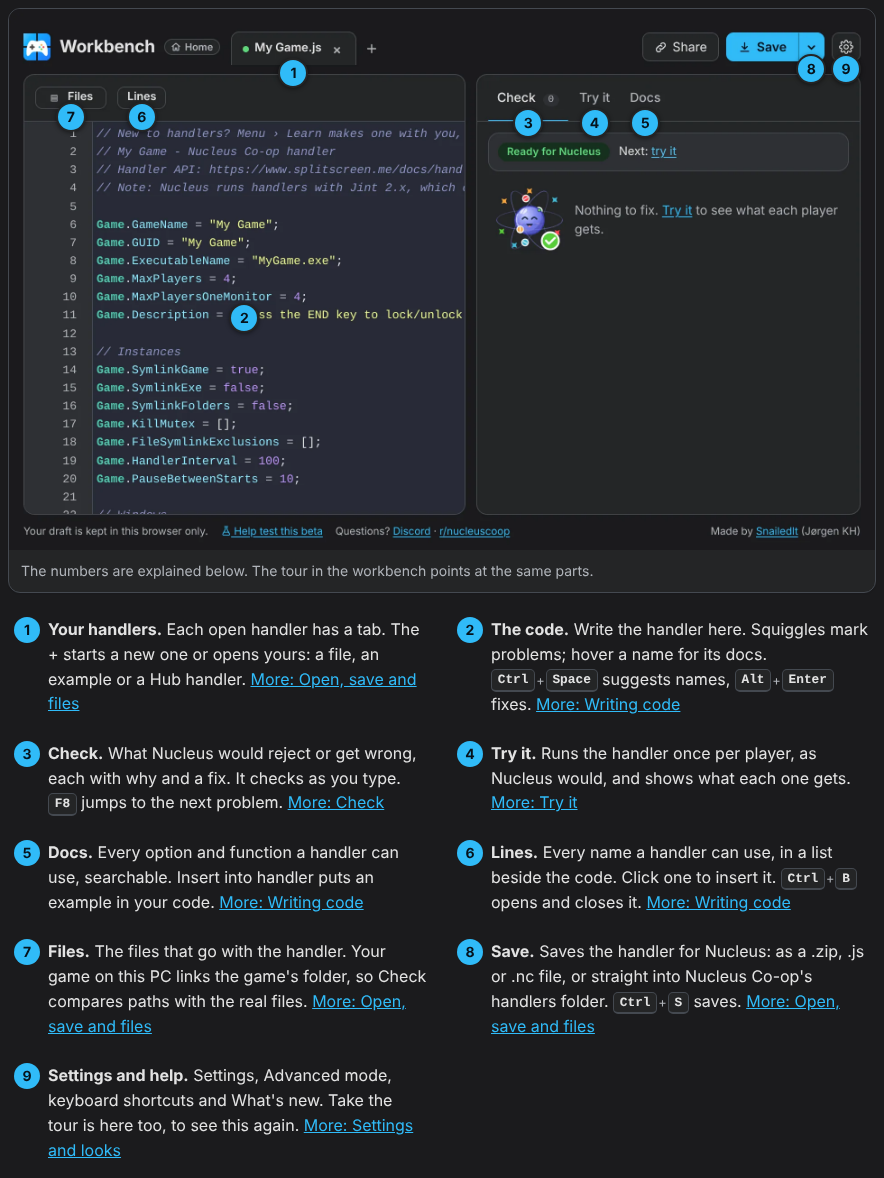
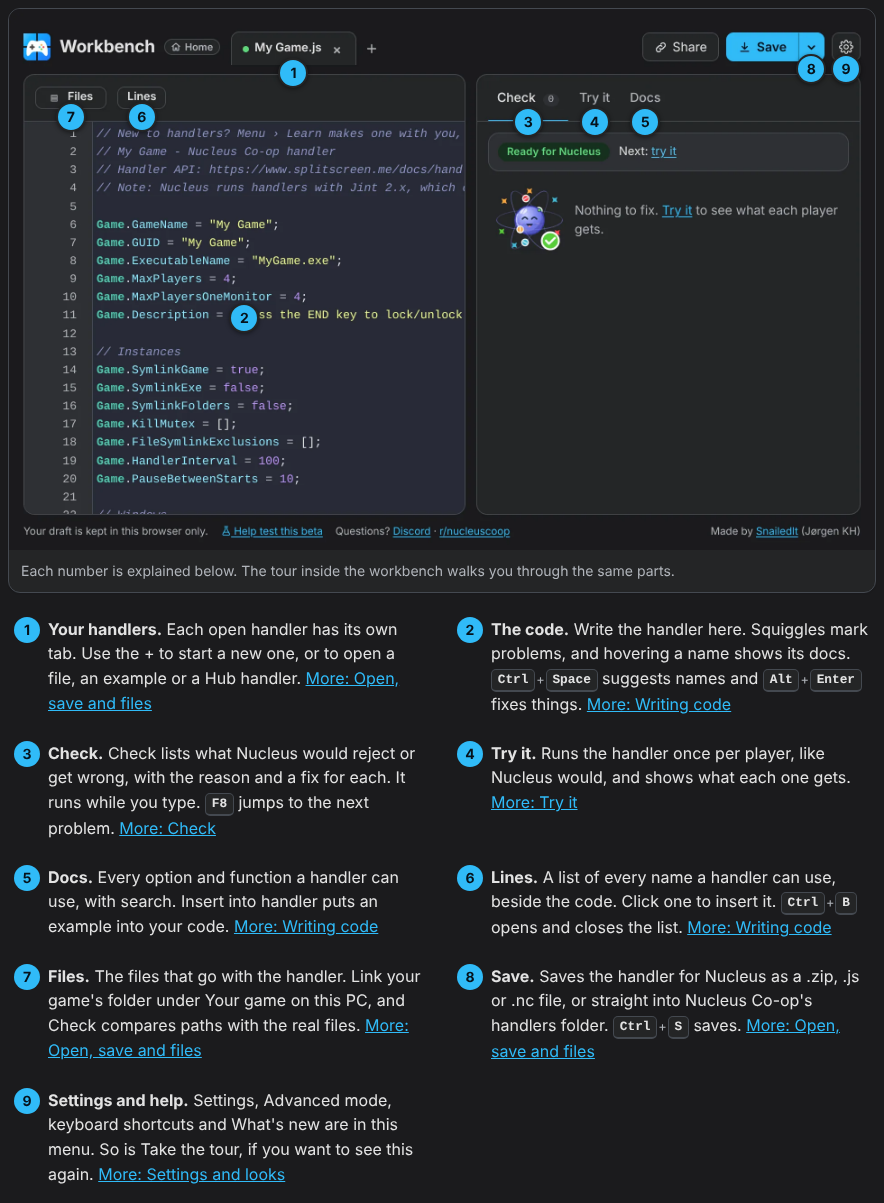
Tools docs: config blocks coloured by their own language, and plainer wording
- Other editors: a fenced block in Lua, TOML, JSON or Emacs Lisp was coloured
  as handler JavaScript, because the docs writer dropped the fence's language.
  It now marks the block with its language and the site's page pass colours
  it; handler code keeps the handler colours, an unknown language stays plain.
- File names (languages.toml, ncdev.exe, *.js) and command lines
  (ncdev setup notepad++) in running text are no longer coloured as code.
- The Tools pages, the tour's words and the tips are reworded to read the way
  a person would explain them: no question openers, fewer colon sentences,
  contractions. AGENTS.md has the convention.

Claude-Session: https://claude.ai/code/session_0176z2bCvwUXMSQ8ZHn5TiTv

diff --git a/workbench/playground/src/tips.ts b/workbench/playground/src/tips.ts
@@ -30,7 +30,7 @@ const has = (c: TipContext, s: string) => c.text.includes(s);
 export const CONTEXT_TIPS: Tip[] = [
   {
     id: 'start',
-    text: 'Starting from scratch? A template or a Hub handler for a similar game gets you most of the way.',
+    text: 'A template or a Hub handler for a similar game gets you most of the way when you start from scratch.',
     when: (c) => c.text.trim().length < 120,
     action: { label: 'New handler…', run: 'new' },
   },
@@ -71,7 +71,7 @@ export const CONTEXT_TIPS: Tip[] = [
   },
   {
     id: 'mutex',
-    text: 'Not sure which mutex to kill? Hub handlers for games on the same engine often use the same one. Search the examples.',
+    text: 'Hub handlers for games on the same engine often kill the same mutex. If you don\'t know which one this game needs, search the examples.',
     when: (c) => /KillMutex\b/.test(c.lineText),
     action: { label: 'Examples', run: 'examples' },
   },
@@ -141,10 +141,10 @@ const PITFALLS = T('Pitfall', [
 const SHORTCUTS = T('Shortcut', [
   { id: 's-palette', text: '{key:palette} (or `F1`) opens the command palette, as in VS Code: format, fix, Try it, theme and the rest, each with its shortcut.' },
   { id: 's-open', text: '{key:open} (or Ctrl+K, or Shift twice) opens the examples, templates and Hub handlers. Type `>` there to switch to commands. Double Shift can be turned off in Settings › Keyboard shortcuts.', action: { label: 'Examples', run: 'examples' } },
-  { id: 'f-looks-past', text: 'Miss the old Nucleus Co-op? Settings ({key:settings}) → Theme has vlxst\'s Mac style and the original alpha 8 look, light and dark.' },
-  { id: 'f-code-colours', text: 'Prefer your editor\'s colours? Settings ({key:settings}) → Theme → Code colours: GitHub, VS Code, Xcode, One, Monokai or Dracula, with any look.' },
-  { id: 'f-custom-theme', text: 'Make the workbench yours: Settings ({key:settings}) → Theme → "Download this look as a theme file", keep only the colours you change, then "Load a theme file…". It shows up under Look, next to the built-in ones.' },
-  { id: 'f-ref-home', text: 'Not sure what an option is called? Open Docs with nothing typed and browse Game, Context, Player and the rest, or see the names Hub handlers use most.' },
+  { id: 'f-looks-past', text: 'If you miss the old Nucleus Co-op look, Settings ({key:settings}) → Theme has vlxst\'s Mac style and the original alpha 8 look, each in light and dark.' },
+  { id: 'f-code-colours', text: 'The code can use your editor\'s colours. Settings ({key:settings}) → Theme → Code colours has GitHub, VS Code, Xcode, One, Monokai and Dracula, and they work with any look.' },
+  { id: 'f-custom-theme', text: 'You can make your own look. In Settings ({key:settings}) → Theme, choose "Download this look as a theme file", keep only the colours you want to change, then "Load a theme file…". It appears under Look next to the built-in ones.' },
+  { id: 'f-ref-home', text: 'When you don\'t know what an option is called, open Docs with nothing typed. You can browse Game, Context, Player and the rest, or look at the names Hub handlers use most.' },
   { id: 'f-lines-ref', text: 'Open the Docs tab, then point at names in Lines ({key:lines}): each one\'s full docs show in Docs, on a wide screen.', action: { label: 'Lines', run: 'lines' } },
   { id: 's-open-keys', text: 'In Open (Ctrl+K), the arrow keys move between tiles, templates and Hub rows; `Home` and `End` jump to the first and last. Hover a Hub handler\'s icons for players, keyboards and mice, and downloads.', action: { label: 'Examples', run: 'examples' } },
   { id: 's-format', text: '{key:format} formats the code: indentation and spacing only. Nothing moves to another line, so Nucleus reads it exactly as before.' },
@@ -153,10 +153,10 @@ const SHORTCUTS = T('Shortcut', [
   { id: 's-lines', text: '{key:lines} shows or hides Lines (Ctrl+Shift+L too, outside the code: in the code it selects every occurrence, as in VS Code).', action: { label: 'Show Lines', run: 'lines' } },
   { id: 's-docs-insert', text: 'Docs show an example for most names: Insert into handler puts it where it belongs (an option with the others, a call in `Game.Play`), or updates the value when the handler sets it already. Ctrl+Z undoes it.' },
   { id: 's-docs-page', text: 'Every name in Docs has a page of its own to link to: open one and choose Open as a page, or send someone docs/Context.ModifySaveFile/ on the site.' },
-  { id: 's-tutorial', text: 'New to handlers? Learn walks you through making your first one, for a free game, a few lines at a time, checked as you type. At the end, you test it in Nucleus Co-op. Stuck on a step? Hint says what\'s missing without giving the answer away.', action: { label: 'Start it', run: 'tutorial' } },
+  { id: 's-tutorial', text: 'If you\'re new to handlers, Learn walks you through making your first one for a free game, a few lines at a time, checked as you type. At the end you test it in Nucleus Co-op. When you\'re stuck on a step, Hint tells you what\'s missing without giving the answer away.', action: { label: 'Start it', run: 'tutorial' } },
   { id: 's-find-all', text: 'Add the same text after every match: {key:find}, type what to find, {key:findSelectAll} selects every match, then `→` puts a cursor after each (`←` before each) and you type once for all.' },
   { id: 's-edit', text: 'VS Code’s editing keys work: {key:comment} comments a line, Alt+↑/↓ moves it, Shift+Alt+↑/↓ copies it, {key:selectNext} selects the next match.' },
-  { id: 's-explain', text: 'Not sure what a line does? Put the cursor on it and press {key:explainLine}: what it does in plain words, the docs of its names, and what Check says about it.' },
+  { id: 's-explain', text: 'To find out what a line does, put the cursor on it and press {key:explainLine}. You get the line in plain words, the docs of its names, and what Check says about it.' },
   { id: 's-goto', text: '{key:goToLine} goes to a line number, handy with a line from a Nucleus error message.' },
   { id: 's-suggest', text: 'Type `.` after `Game`, `Context` or `Nucleus`, or press {key:suggest}, for the names that exist there, with their docs.' },
   { id: 's-save', text: '{key:save} saves the handler as a .zip Nucleus Co-op can install; {key:saveAs} (or the arrow next to Save) picks .js or .nc. {key:settings} opens Settings, and ? lists every shortcut.' },
@@ -169,7 +169,7 @@ const SETTINGS = T('Setting', [
   { id: 'c-lines', text: 'Lines can show a tree or one list, grouped by object, topic, type or where names work (top level or inside Game.Play). The ⚙ has more, like a wider column.', action: { label: 'Show Lines', run: 'lines' } },
   { id: 'c-review', text: 'Fix all shows a before/after to accept first. Tick Apply without review to skip that.' },
   { id: 'c-tips', text: 'Turn tips off with "Tips: on" at the bottom, or in Settings. "Show heads-ups again" there brings back the ones about specific lines.' },
-  { id: 'c-wakatime', text: 'Use WakaTime? Add your API key in Settings: writing, testing in Try it and reading docs show up as separate categories. The code is never sent.' },
+  { id: 'c-wakatime', text: 'If you use WakaTime, add your API key in Settings. Writing, testing in Try it and reading docs then show up as separate categories. Your code is never sent.' },
 ]);
 
 const FEATURES_ = T('Feature', [
@@ -182,29 +182,29 @@ const FEATURES_ = T('Feature', [
   { id: 'f-package', text: 'Open a .zip or .nc, or a Hub handler marked "+ N files" in the Open list, and its other files come along: "+ N files" shows each one, where Nucleus installs it and what’s inside, and saving puts them back. Big Hub files show a Hub badge: get those from the original package.' },
   { id: 'f-reference', text: 'The Docs tab searches every option, Context member and Nucleus enum with its docs: try "window title" or "mutex".' },
   { id: 'f-mascots', text: 'Meet Nucli, the quiet atom who checks your handler: he dozes until there\'s code, cheers when there\'s nothing to fix and runs Test all. Duo, splitscreen.me\'s split-screen ball, turns up when something won\'t load.' },
-  { id: 'f-mascot-modes', text: 'Want Duo and Nucli livelier, or nothing moving at all? Settings › Motion has presets and a switch for each kind of motion, including Nucli editing the code during fixes.' },
-  { id: 'f-ai-guide', text: 'Writing a handler with ChatGPT, Claude, Codex or another AI? The site’s AI page has a prompt to paste for agents and one for chatbots, so it follows Nucleus’ rules and checks its work.' },
+  { id: 'f-mascot-modes', text: 'Settings › Motion decides how lively Duo and Nucli are, down to nothing moving at all. It has presets and a switch for each kind of motion, including Nucli editing the code during fixes.' },
+  { id: 'f-ai-guide', text: 'If you write handlers with ChatGPT, Claude, Codex or another AI, give it our prompt first. The site’s AI page has one for agents and one for chatbots, so the AI follows Nucleus’ rules and checks its work.' },
   { id: 'f-ai-providers', text: 'Fix with AI works with Claude, OpenAI, OpenRouter, Gemini or a free local model (Ollama, LM Studio): pick one in Settings › AI.' },
   { id: 'f-save-nucleus', text: 'Save straight into Nucleus Co-op: {key:saveNucleus} (or Save ▾ › Into Nucleus Co-op) writes the handler into its handlers folder. Pick the folder once; in Firefox and Safari it saves the .zip to drag onto Nucleus.' },
-  { id: 'f-value-pick', text: 'Not sure what a value can be? Put the cursor on it, like the false in Game.SymlinkGame = false;, and tap the ▾ after it (or press Alt+↓) to pick from the values it takes.' },
-  { id: 'f-wm-plus', text: 'Blocking window messages with Proto Input? Each number in Game.ProtoInput.BlockedMessages shows its name, and the + before the ] adds the ones handlers block most.' },
+  { id: 'f-value-pick', text: 'To see what a value can be, put the cursor on it (like the false in Game.SymlinkGame = false;) and tap the ▾ after it, or press Alt+↓. You can pick from the values it takes.' },
+  { id: 'f-wm-plus', text: 'When you block window messages with Proto Input, each number in Game.ProtoInput.BlockedMessages shows its name, and the + before the ] adds the ones handlers block most.' },
   { id: 'f-eq-values', text: 'Type a space after = (as in Game.SymlinkGame = ) and the editor suggests the values that option takes. For Game.Play it writes the whole function.' },
-  { id: 'f-votes', text: 'Was a tip useful? The 👍 and 👎 next to it tell us, anonymously. The AI-written docs have them too.' },
-  { id: 'f-density', text: 'Want more or less in Check? Settings › Check: Compact (one line each), Comfortable or Detailed.' },
+  { id: 'f-votes', text: 'The 👍 and 👎 next to a tip tell us whether it was useful. They\'re anonymous. The AI-written docs have them too.' },
+  { id: 'f-density', text: 'Check can show more or less per problem. Settings › Check has Compact (one line each), Comfortable and Detailed.' },
   { id: 'f-tabs', text: 'Open more than one handler: + next to the tabs opens a new one, and your changes stay in their own tab. Ctrl+Shift+[ and ] switch between them.' },
   { id: 'f-edge-menu', text: 'Right-click the edge between two panels (or focus it and press the keyboard\'s menu key) for its layout menu: reset its size, move Files or Lines to the other side, or hide it.' },
-  { id: 'f-rail', text: 'Want more room for code? Settings › Layout › Side rail puts the tools in a strip on the left; › at its bottom shows their names. Files and Lines can sit on either side of the code.' },
+  { id: 'f-rail', text: 'For more room for code, Settings › Layout › Side rail puts the tools in a strip on the left. The › at its bottom shows their names. Files and Lines can sit on either side of the code.' },
   { id: 'f-gamefolder', text: 'Files › Your game on this PC: link the folder your game is installed in, and Check compares the executable and file lists with the real files, and hints at the Proto Input hooks the game\'s .exe and DLLs call for. Read in your browser only.' },
-  { id: 'f-settings-io', text: 'New computer or browser? Settings › Updates and backup exports your settings to a file, and imports them there.' },
-  { id: 'f-feedback', text: 'Found something odd? Report a problem (menu or {key:palette}) opens the right GitHub form already filled in with your browser, settings and where the handler came from, never your code. No GitHub account? Copy the report for the testers\u2019 Discord thread.' },
-  { id: 'f-check-wrong', text: 'A warning on code that works in Nucleus? Open the problem in Check (or hover it) and use the flag, This check is wrong: the check and the line are filled in for you.' },
-  { id: 'f-tryit-differs', text: 'Nucleus did something Try it didn\u2019t show? The icon in the corner of Try it\u2019s result reports what it showed, next to what really happened.' },
+  { id: 'f-settings-io', text: 'Settings › Updates and backup exports your settings to a file, so you can import them on another computer or browser.' },
+  { id: 'f-feedback', text: 'If something looks wrong, use Report a problem (in the menu, or {key:palette}). It opens the right GitHub form, filled in with your browser, your settings and where the handler came from, but never your code. Without a GitHub account you can copy the report for the testers’ Discord thread instead.' },
+  { id: 'f-check-wrong', text: 'If Check warns about code that works in Nucleus, open the problem in Check (or hover it) and use the flag, This check is wrong. The check and the line are filled in for you.' },
+  { id: 'f-tryit-differs', text: 'If Nucleus did something Try it didn’t show, use the icon in the corner of Try it’s result. It reports what Try it showed next to what really happened.' },
   { id: 'f-a11y', text: 'Settings › Accessibility: colour-blind-friendly colours, another underline for problems, a strong focus ring, larger buttons, an easier-to-read font, and notes that stay until you close them.' },
-  { id: 'f-files', text: 'A handler with extra files (ini, dlls…)? Files, above the code, shows the package as Nucleus installs it; open its text files in tabs, and drop files on it to add them.' },
-  { id: 'f-swipe', text: 'Done with a note at the bottom right? Swipe it away to the right, or hover the stack to read them all.' },
+  { id: 'f-files', text: 'For a handler with extra files (ini, dlls…), Files above the code shows the package as Nucleus installs it. You can open its text files in tabs and drop files on it to add them.' },
+  { id: 'f-swipe', text: 'Swipe a note at the bottom right away to the right when you\'re done with it, or hover the stack to read them all.' },
   { id: 'f-gutter', text: 'Click a marker next to a line number for that line’s problems and fixes.' },
   { id: 'f-hub', text: 'The examples include the most-downloaded verified Hub handlers. Check and Try it work on them, so you can see how others solved a problem.', action: { label: 'Examples', run: 'examples' } },
-  { id: 'f-vscode', text: 'Prefer your own editor? The VS Code extension has the same checks, docs on hover and Try it, for the files in your handlers folder.' },
+  { id: 'f-vscode', text: 'If you\'d rather use your own editor, the VS Code extension has the same checks, docs on hover and Try it, for the files in your handlers folder.' },
 ]);
 
 // Who each tip is for (Tip.for). Unset: useful to everyone. Guided shows newcomer tips, Advanced mode

diff --git a/workbench/playground/src/codetext.ts b/workbench/playground/src/codetext.ts
@@ -1,6 +1,8 @@
 // Whether inline code is clearly code, shared by the workbench (codehl.ts) and the build (the site's pages).
 import { isKeyCombo } from './kbd';
 
+const FILE_NAME = /^[\w$*.%-]*\.(?:js|ts|json|toml|lua|el|ini|cfg|txt|md|xml|ya?ml|html|css|exe|dll|nc|zip|vsix|sh|bat|ps1|log)$/i;
+const COMMAND_LINE = /^(?:ncdev|nucleus|node|npm|npx|git|chmod|mkdir|mv|cd|code)\s/;
 /** Whether inline code is clearly code (a member path, a call, a literal, an operator), not a plain word in running
  *  text: `Game.Play`, `includes()`, `"-windowed"`, `true` are coloured; `handlers` or `ExecutableName` stay plain. */
 export function looksLikeCodeText(s: string): boolean {
@@ -9,6 +11,9 @@ export function looksLikeCodeText(s: string): boolean {
   if (isKeyCombo(t)) return false; // a shortcut (`Ctrl+.`): drawn as keys (kbd.ts), not coloured as code
   if (/^[\w$]+$/.test(t)) return /^(true|false|null|undefined|var|function|new|\d[\d.]*)$/.test(t);
   if (/[\\/]/.test(t) && !/[("=]/.test(t)) return false; // a path or a file name
+  // A file name (`languages.toml`, `ncdev.exe`, `*.js`) or a command line (`ncdev setup notepad++`) is not handler
+  // code: the dot isn't a member and the ++ isn't an operator.
+  if (FILE_NAME.test(t) || COMMAND_LINE.test(t)) return false;
   return /[.()=;"'[\]{}+<>!-]/.test(t);
 }
 

diff --git a/workbench/CHANGELOG.md b/workbench/CHANGELOG.md
@@ -18,7 +18,7 @@ How to write it (people and AI agents read this, and the workbench shows it):
 - **A new address: https://snailedlt.github.io/nucleus-devtools/.** The workbench moved into the tools' repository, [nucleus-devtools](https://github.com/Snailedlt/nucleus-devtools), so it's built from the same commit as the checks it runs. Update your bookmarks; your drafts and settings come along (same site, new folder). Reports go to the same forms as the other tools'.
 ### ✨ New
 - **Set up your AI for handlers.** A short page on the site (ai/): what the tools give an AI, the free and paid setups we recommend, and prompts to copy. Claude Code and other AI agents (Codex, Antigravity, Cursor) get a setup prompt to run once (it installs our plugin or adds our MCP server, so the agent checks and tries its own work) and a prompt to make a handler, once per game; chatbots (ChatGPT, Claude, Gemini, Grok) get the rules a handler must follow. Type your game once and it fills every prompt. Linked from the start and tools pages.
-- **A guide to the workbench, and every tool explained.** The docs have a third section, Tools. The workbench gets a guide: a screenshot with a number on each part, then a short page each for writing code, Check, Try it, the debugger, opening and saving, AI, and Settings. Every other tool (VS Code, Notepad++, other editors, `ncdev`, the MCP server) has a page that says what it is, when it is useful and how it works, with screenshots, before its commands, keys and settings. Editors has a page that compares them.
+- **A guide to the workbench, and docs for every tool.** The docs have a new Tools section, with a guide to the workbench that starts from a screenshot where every part is numbered. VS Code, Notepad++, the other editors, `ncdev` and the MCP server each have a page on what they're for and how they work, and there's a page that compares the editors.
 
   <details><summary>Screenshot</summary>
 

diff --git a/AGENTS.md b/AGENTS.md
@@ -196,6 +196,7 @@ Every user-visible change to the extension, ncdev, the Notepad++ plugin or the s
 
 ## Conventions
 
+- **Docs and UI text read as if a person wrote them** (the maintainer's request, 2026-11-21). Write the way you'd explain it to someone on Discord: plain sentences, "you", contractions, and the reason behind a thing when it helps. Leave out the habits that give AI writing away: opening with a question ("Not sure what a line does?"), lists of exactly three, a slogan as the last line of a paragraph, one "X: Y" colon sentence after another, two mirrored halves joined by a semicolon, and filler such as *simply*, *seamlessly*, *powerful*, *ensure*. Vary the sentence length, and say a thing once. It applies to the docs' Tools pages (`data/tools.json`, `workbench/playground/src/guide.json`), the tips and the tour, and to anything new.
 - **Structured and data-driven.** Put content in data (JSON, typed fields) and render it, rather than writing it into strings or code, so it's easy to maintain and reads consistently for people (the AI docs' `basis` is an example: fields, rendered as a list, a line or words wherever it shows).
 - **One push per review round.** On a pull request under review, wait until the reviewer (CodeRabbit) has finished, fix every valid comment together, run the checks once and push once; a late or minor comment gets a reply and its fix goes with the next batch, and a wrong one gets a reply and no push. Each push reruns CI and the review, and many small ones make CodeRabbit pause. Verify a comment before acting on it: they are suggestions, and some are wrong.
 - When the maintainer has to run a workflow or change a setting, give the direct link (e.g. https://github.com/Snailedlt/nucleus-devtools/actions/workflows/release.yml) and the inputs to enter.
